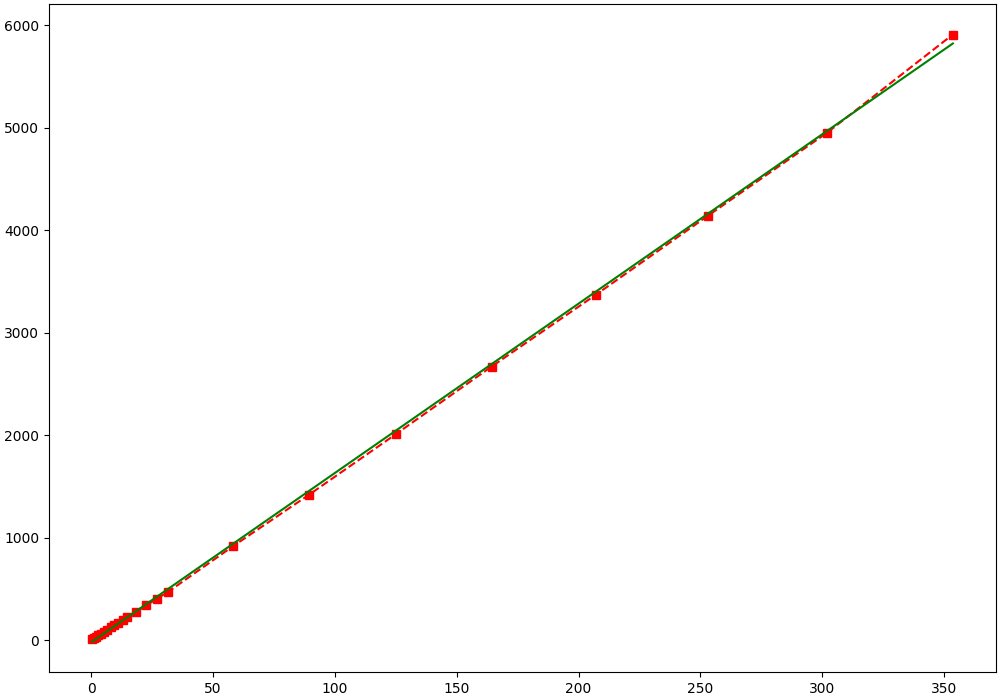
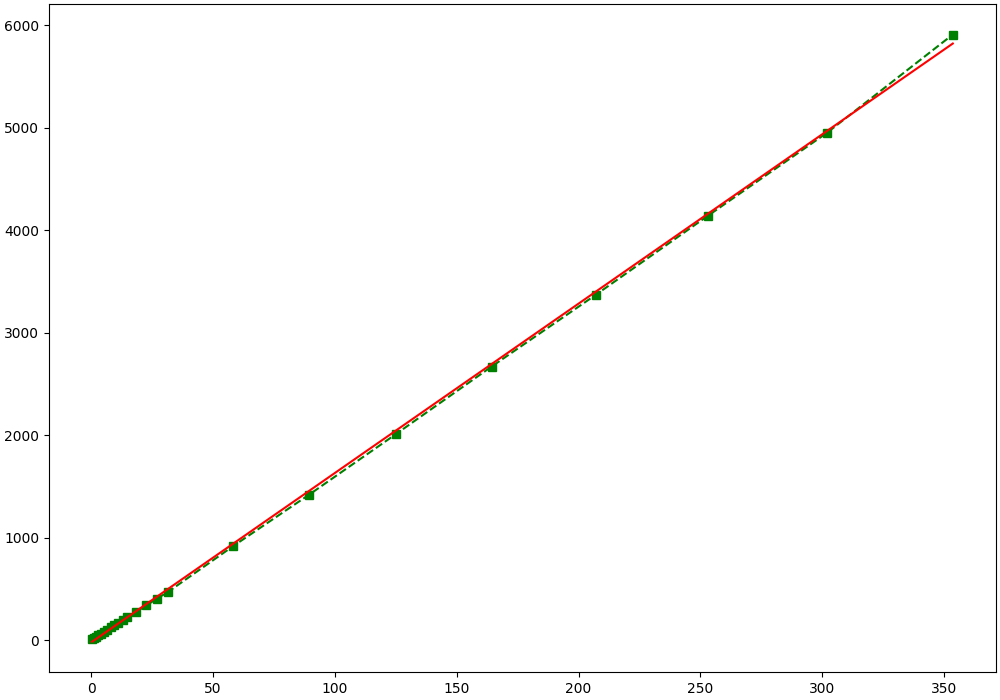
#

diff --git a/3.3.2/2.py b/3.3.2/2.py
@@ -97,6 +97,6 @@ print(b)
 
 fig, ax = plt.subplots(figsize=(10,7), constrained_layout=True)
 
-plt.plot(x, y, 'rs--')
-plt.plot(x_aproc, y_fit, 'g-')
+plt.plot(x, y, 'gs--')
+plt.plot(x_aproc, y_fit, 'r-')
 plt.savefig("2.png")

diff --git a/3.3.2/3.py b/3.3.2/3.py
@@ -97,6 +97,6 @@ print(b)
 
 fig, ax = plt.subplots(figsize=(10,7), constrained_layout=True)
 
-plt.plot(x, y, 'rs--')
-plt.plot(x_aproc, y_fit, 'g-')
+plt.plot(x, y, 'bs--')
+plt.plot(x_aproc, y_fit, 'r-')
 plt.savefig("3.png")

diff --git a/3.3.2/4.py b/3.3.2/4.py
@@ -97,6 +97,6 @@ print(b)
 
 fig, ax = plt.subplots(figsize=(10,7), constrained_layout=True)
 
-plt.plot(x, y, 'rs--')
+plt.plot(x, y, 'ys--')
 plt.plot(x_aproc, y_fit, 'g-')
 plt.savefig("4.png")
